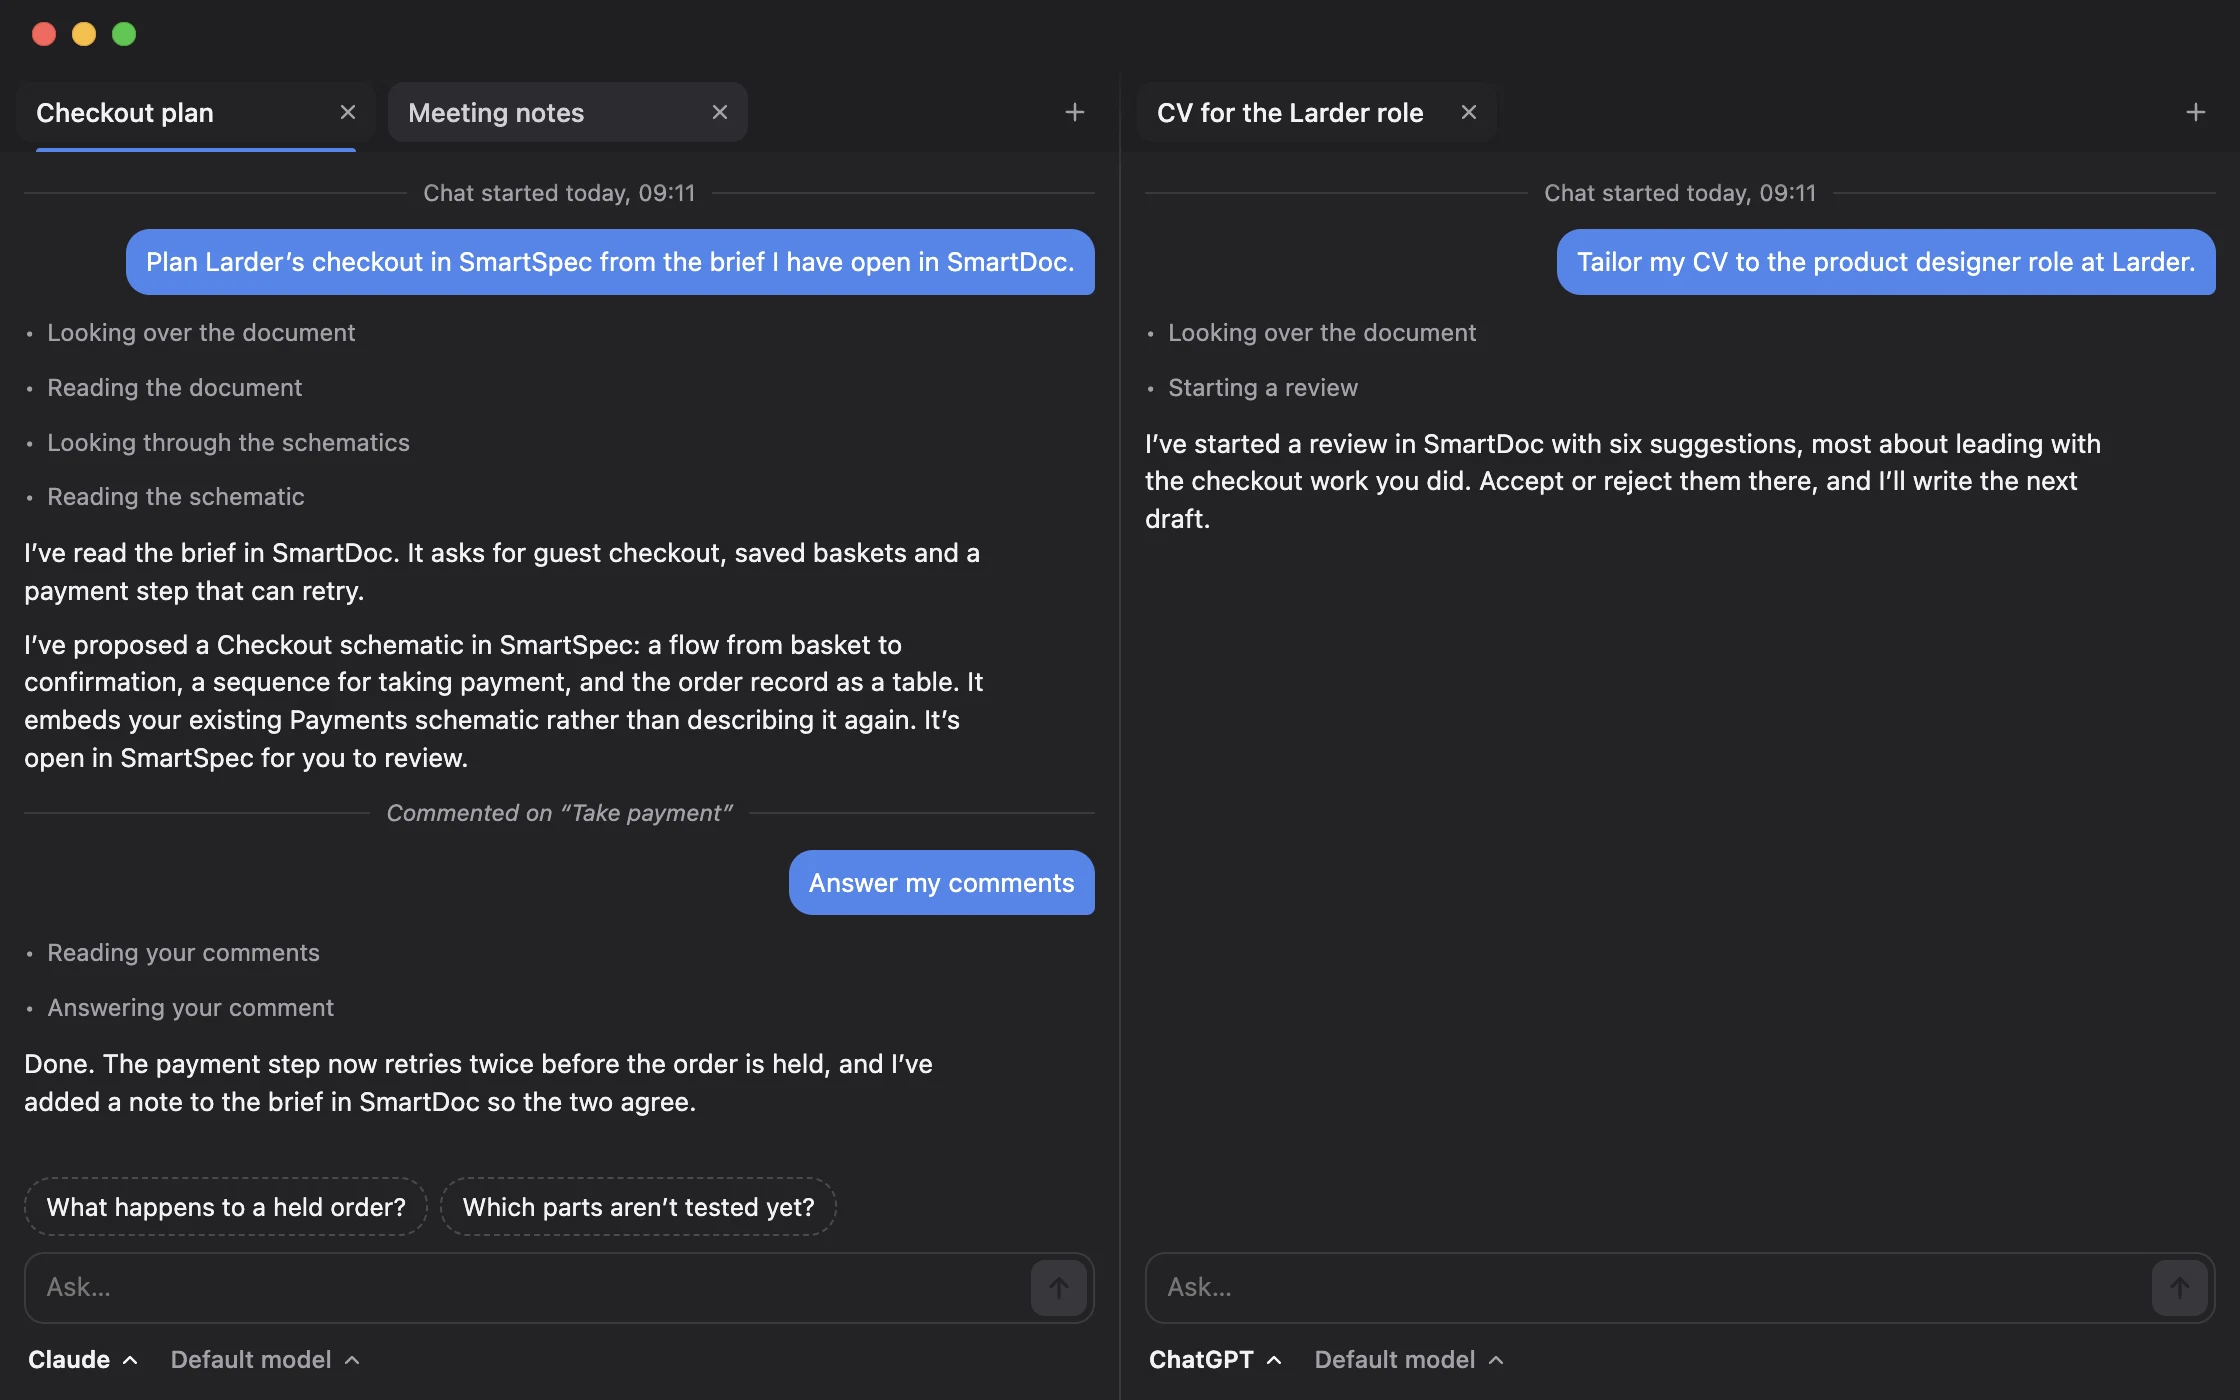
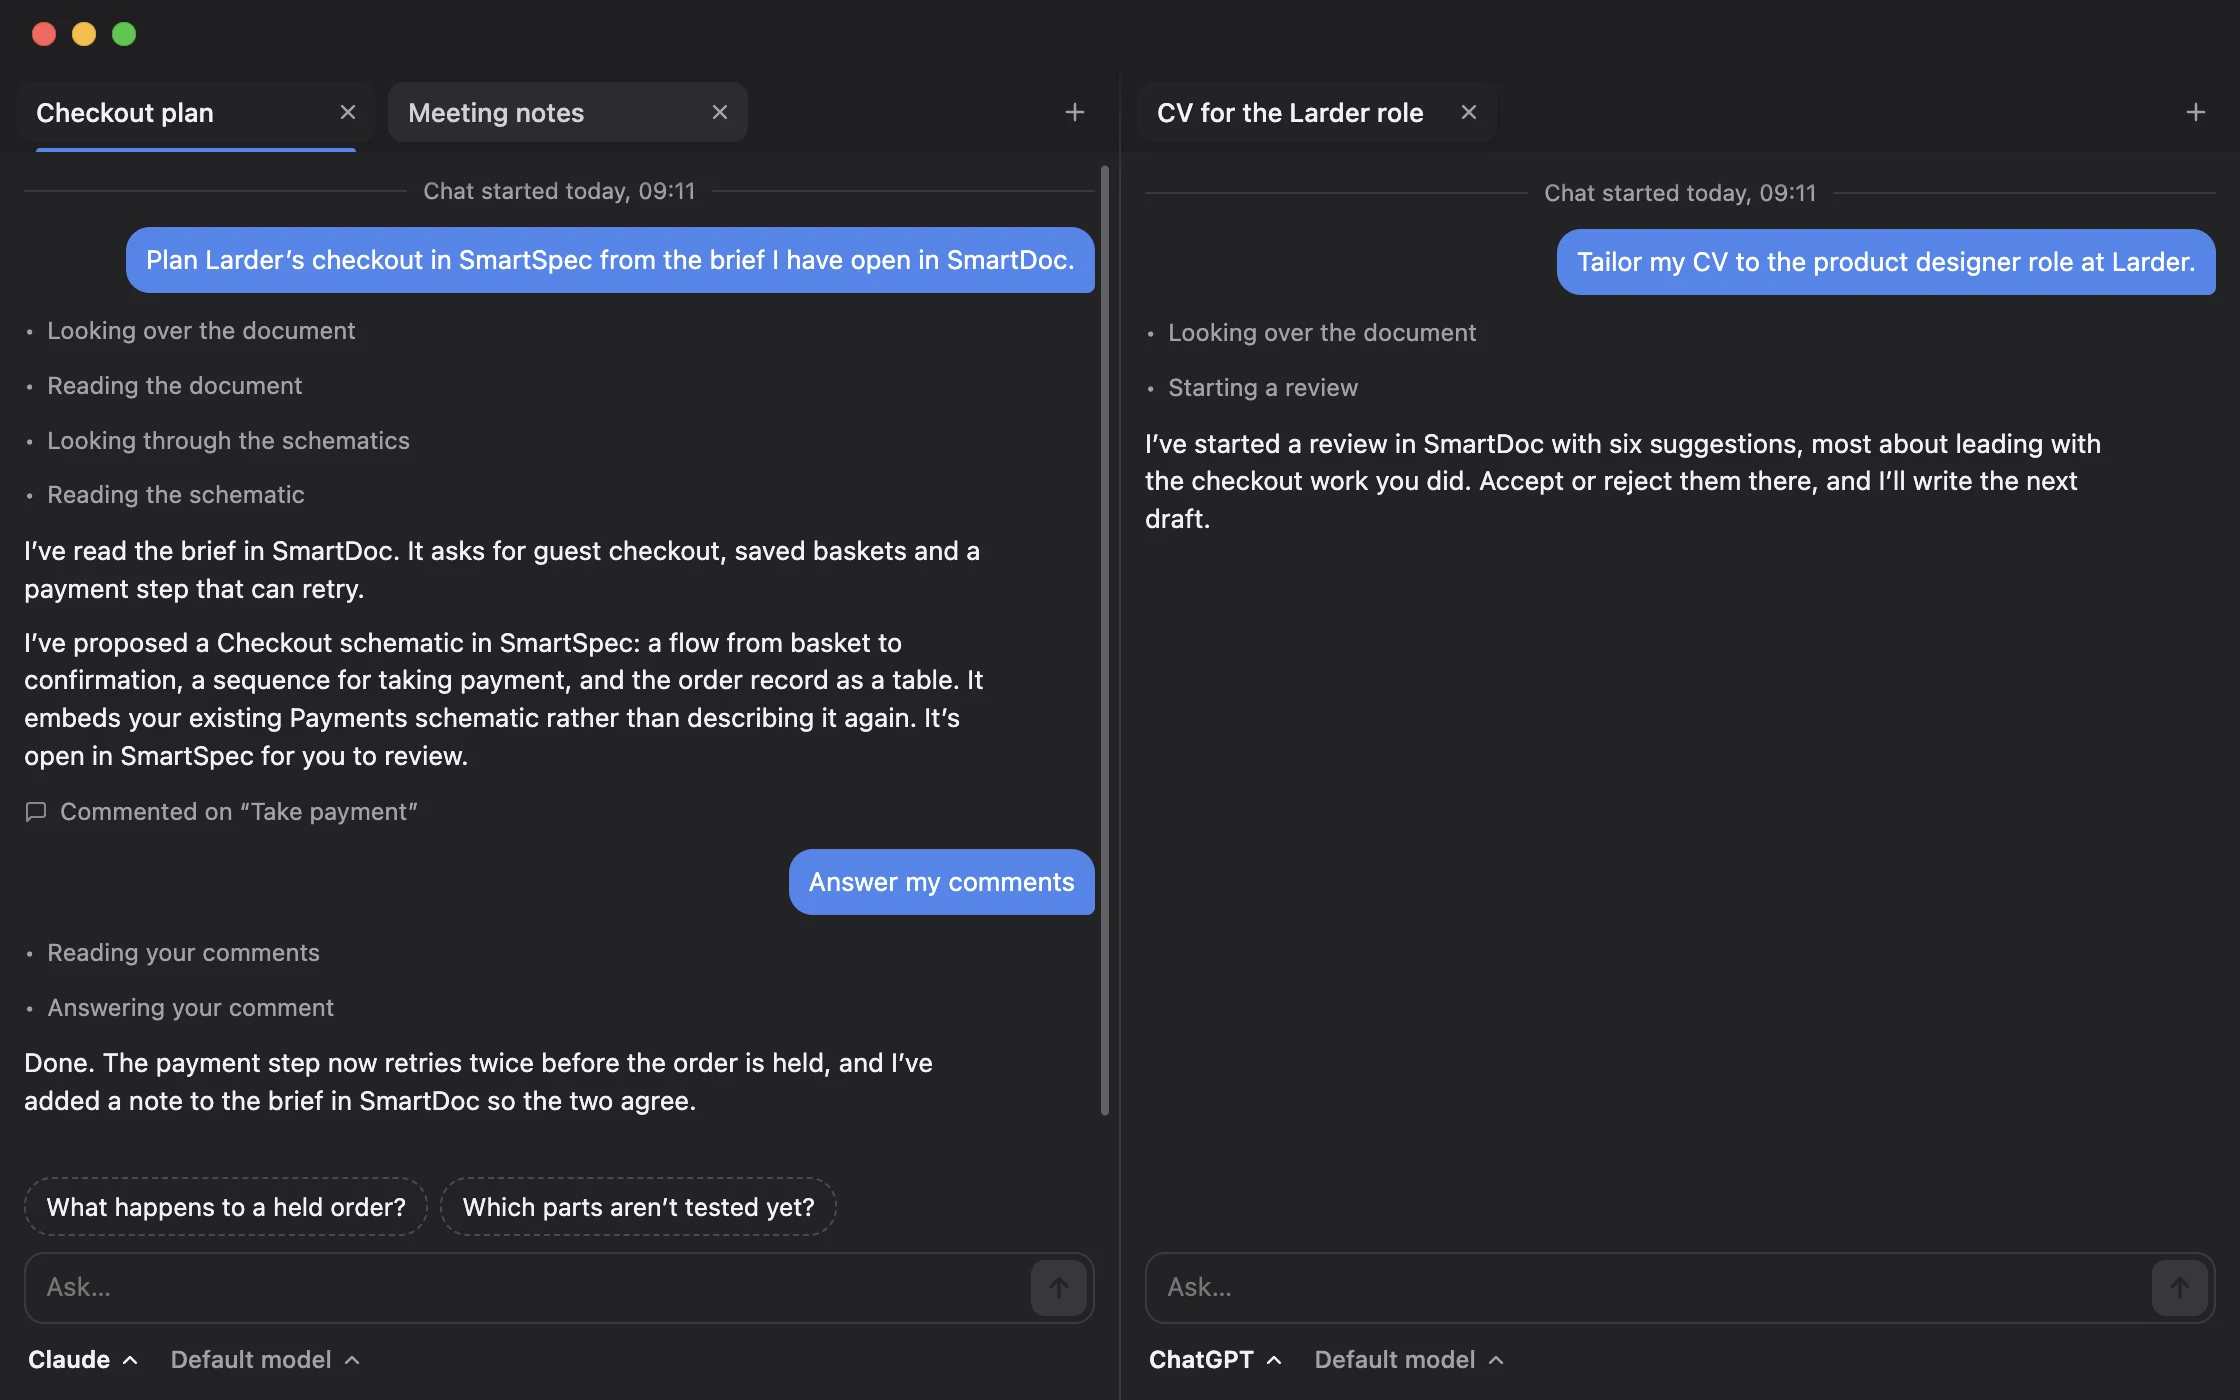
Show what the user did in the chat as plain lines
Where a tab went ("Opened …", "Went home") is still a line across the
conversation between rules; what the user did there ("Accepted …",
"Looking at …") is now a plain line on the left with its verb's icon,
so a run of them no longer reads as a wall of dividers. Every such line
is one line, ending in "…" with the whole on hover. Notes about moves are
saved with `move`. The website's still is retaken to match.

diff --git a/apps/smartdesktop/packages/app/src/renderer/chat-panel.js b/apps/smartdesktop/packages/app/src/renderer/chat-panel.js
@@ -434,7 +434,8 @@ export function createChatPanel({ el, api, chatId }) {
     return list.filter((message) => message.role !== 'assistant' || message.text?.trim()).map((message) => {
       const node = div(`chat-message ${message.role}${message.kind ? ` ${message.kind}` : ''}`);
       if (message.role === 'assistant') node.append(...formatted(message.text));
-      else if (message.role === 'step' || message.role === 'event') node.textContent = message.text;
+      else if (message.role === 'event') eventLine(node, message);
+      else if (message.role === 'step') node.textContent = message.text;
       else for (const paragraph of message.text.split(/\n{2,}/)) node.append(div('chat-paragraph', paragraph));
       // The AI's session for the conversation has gone: while that's the latest thing, a way to
       // start a new one (the user may fix it instead, and send again).
@@ -452,6 +453,20 @@ export function createChatPanel({ el, api, chatId }) {
       }
       return node;
     });
+  }
+
+  // A line of context or where things went, always one line: what doesn't fit ends in "…", whole
+  // on hover. Where a tab went (or a new session) is drawn across the conversation, between rules;
+  // what the user did in it is a plain line with its verb's icon (see ACTION_ICONS).
+  function eventLine(node, message) {
+    const text = div('chat-event-text', message.text);
+    node.title = message.text;
+    if (message.kind === 'context' && !isMove(message)) {
+      node.classList.add('action');
+      const icon = div('chat-event-icon');
+      icon.innerHTML = actionIcon(message.text);
+      node.append(icon, text);
+    } else node.append(text);
   }
 
   showChoice();
@@ -521,6 +536,21 @@ function inline(text) {
   if (at < text.length) nodes.push(document.createTextNode(text.slice(at)));
   return nodes;
 }
+
+// Lines saved before moves were marked as such (`move`), known by how they start.
+const isMove = (message) => message.move || /^(Opened |Went home|Reviewing the proposed)/.test(message.text);
+
+// The icon for what the user did, by the verb its line starts with (Lucide's, ISC); a dot otherwise.
+const ICON = (paths) => `<svg viewBox="0 0 24 24" width="12" height="12" fill="none" stroke="currentColor" stroke-width="2.2" stroke-linecap="round" stroke-linejoin="round" aria-hidden="true">${paths}</svg>`;
+const ACTION_ICONS = [
+  [/^(Accepted|Approved|Answered|Acknowledged|Chose|Decided)\b/, ICON('<path d="M20 6 9 17l-5-5"/>')],
+  [/^(Rejected|Discarded)\b/, ICON('<path d="M18 6 6 18"/><path d="m6 6 12 12"/>')],
+  [/^Skipped\b/, ICON('<path d="M5 12h14"/><path d="m12 5 7 7-7 7"/>')],
+  [/^Looking at\b/, ICON('<path d="M2.062 12.348a1 1 0 0 1 0-.696 10.75 10.75 0 0 1 19.876 0 1 1 0 0 1 0 .696 10.75 10.75 0 0 1-19.876 0"/><circle cx="12" cy="12" r="3"/>')],
+  [/^Commented on\b/, ICON('<path d="M21 15a2 2 0 0 1-2 2H7l-4 4V5a2 2 0 0 1 2-2h14a2 2 0 0 1 2 2z"/>')],
+  [/^Took back\b/, ICON('<path d="M9 14 4 9l5-5"/><path d="M4 9h10.5a5.5 5.5 0 0 1 5.5 5.5a5.5 5.5 0 0 1-5.5 5.5H11"/>')],
+];
+const actionIcon = (text) => ACTION_ICONS.find(([verb]) => verb.test(text))?.[1] ?? ICON('<circle cx="12" cy="12" r="2" fill="currentColor" stroke="none"/>');
 
 function div(className, text) {
   const node = document.createElement('div');

diff --git a/apps/smartdesktop/packages/app/src/renderer/styles.css b/apps/smartdesktop/packages/app/src/renderer/styles.css
@@ -197,7 +197,9 @@ body.chat-window-body { display: flex; flex-direction: column; background: var(-
 .chat-message.step::before { content: "•"; margin-right: 6px; }
 /* Where an app window went, noted in the conversation: a quiet line across it. */
 .chat-message.event { align-self: stretch; display: flex; align-items: center; gap: 8px; max-width: none; color: var(--muted); font-size: 11.5px; }
-.chat-message.event::before, .chat-message.event::after { content: ""; flex: 1; height: 1px; background: var(--border); }
+.chat-message.event::before, .chat-message.event::after { content: ""; flex: 1 0 16px; height: 1px; background: var(--border); }
+/* Always one line: what doesn't fit ends in "…" (the whole line on hover). */
+.chat-event-text { min-width: 0; overflow: hidden; text-overflow: ellipsis; white-space: nowrap; }
 .chat-message.error { align-self: stretch; padding: 7px 10px; border-radius: 8px; background: var(--del-bg); color: var(--del-text); }
 /* The AI's session has gone: said plainly, not as a failure, with a way to start a new one. */
 .chat-message.error.session-gone { display: grid; gap: 10px; justify-items: start; padding: 10px 12px; background: var(--subtle-bg); color: var(--text-2); }
@@ -215,6 +217,11 @@ body.chat-window-body { display: flex; flex-direction: column; background: var(-
 /* What the user did or looked at in an app, posted to the conversation as context for their
    next message (see chat-panel.js): a quiet line across it, as other notes are. */
 .chat-message.event.context { color: var(--muted); font-style: italic; }
+/* Something the user did in a tab (not where it went): a plain line on the left, its verb's icon
+   first, as the AI's steps are, with no rules. */
+.chat-message.event.action { gap: 6px; font-size: 12px; font-style: normal; }
+.chat-message.event.action::before, .chat-message.event.action::after { content: none; }
+.chat-event-icon { display: flex; flex: none; opacity: 0.8; }
 /* A question the AI suggested asking next: a shortcut like the others, in its own quieter style. */
 .chat-chip.suggested { border-style: dashed; }
 /* The message box floats over the conversation's bottom, on the chat's background, which

diff --git a/apps/smartdesktop/packages/app/src/main/agent.js b/apps/smartdesktop/packages/app/src/main/agent.js
@@ -602,15 +602,16 @@ export function createAgent({ userData, onEvent, trial = null }) {
   // not sent to the AI by itself, but with the user's next message (contextFor), so it knows what has
   // happened and what they were looking at. `detail` is what the AI is told, if it needs more than
   // the line says. Looking at something new replaces a line about what they looked at before, if
-  // nothing came between, so the conversation doesn't fill with them.
-  async function note(id, { text, detail = null, focus = false, about = null } = {}) {
+  // nothing came between, so the conversation doesn't fill with them. `move` marks where a tab went
+  // (drawn across the conversation), as against something the user did there.
+  async function note(id, { text, detail = null, focus = false, about = null, move = false } = {}) {
     if (!text) return;
     const chat = await load(id);
     if (!chat) return;
     const { messages } = chat;
     const last = messages.at(-1);
     if (last?.kind === 'context' && last.text === text) return;
-    const entry = { id: `m-${Date.now().toString(36)}-${messages.length}`, at: new Date().toISOString(), role: 'event', kind: 'context', text, ...(detail && { detail }), ...(focus && { focus: true }), ...(about && { about }) };
+    const entry = { id: `m-${Date.now().toString(36)}-${messages.length}`, at: new Date().toISOString(), role: 'event', kind: 'context', text, ...(detail && { detail }), ...(focus && { focus: true }), ...(about && { about }), ...(move && { move: true }) };
     if (focus && last?.kind === 'context' && last.focus) messages[messages.length - 1] = entry;
     else messages.push(entry);
     await save(chat);

diff --git a/apps/smartdesktop/packages/app/src/main/main.js b/apps/smartdesktop/packages/app/src/main/main.js
@@ -141,7 +141,7 @@ async function onMessage(client, message) {
         const before = win.shows?.key;
         const owner = ownerOf(client.app, id);
         if (owner && before !== undefined && before !== message.shows.key && message.shows.text) {
-          agent.note(owner, { text: message.shows.text, detail: `In ${client.name}: ${message.shows.detail ?? message.shows.text}` });
+          agent.note(owner, { text: message.shows.text, detail: `In ${client.name}: ${message.shows.detail ?? message.shows.text}`, move: true });
         }
         win.shows = message.shows;
       }
